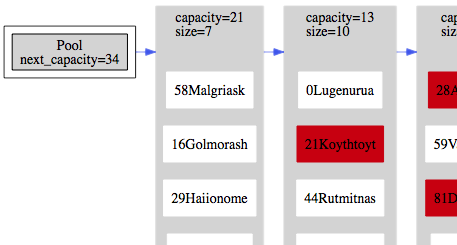
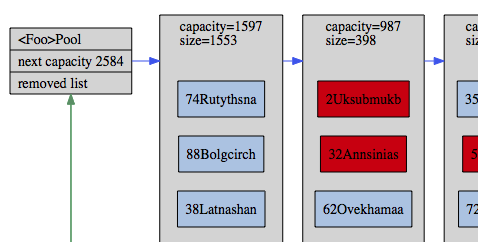
Image made prettier.

diff --git a/test/TestPool.h b/test/TestPool.h
@@ -33,23 +33,26 @@ static void PT_(graph)(const struct T_(Pool) *const p, const char *const fn) {
 	if(!(fp = fopen(fn, "w"))) { perror(fn); return; }
 	fprintf(fp, "digraph {\n"
 		"\tgraph [compound=true, nslimit=3, nslimit1=3];\n"
-		"\trankdir=LR;\n" /* *beg take this out. */
-		"\tnode [shape=box, style=filled];\n"
-		"\tsubgraph cluster_%s {\n"
-		"\t\tdud_%s [label=\"Pool\\nnext_capacity=%lu\\l\"];\n",
-		b_strs[b], b_strs[b], (unsigned long)p->next_capacity);
-	if(p->removed.prev) fprintf(fp, "\t\tnode%p [label=\"removed\"];\n",
-		(const void *)PT_(x_const_upcast)(&p->removed));
-	fprintf(fp, "\t}\n"
-		"\tedge [color=royalblue];\n");
+		"\trankdir=LR;\n"
+		"\tedge [color=royalblue];\n"
+		"\tnode [shape=record, style=filled, fillcolor=lightgray];\n"
+		"\tnode%p [label=\"\\<" QUOTE(POOL_NAME) "\\>Pool\\l|next capacity %lu\\l|removed list\\l\"];\n",
+			(const void *)PT_(x_const_upcast)(&p->removed), /*b_strs[b],*/ (unsigned long)p->next_capacity);
 	for(block = p->largest; block; block = block->smaller) {
 		sprintf(b_strs[b = !b], "block%p", (const void *)block);
+		/* This is cleaver but I don't know what I did. Hack. */
+		if(block == p->largest) {
+			fprintf(fp, "\tnode%p",
+				(const void *)PT_(x_const_upcast)(&p->removed));
+		} else {
+			fprintf(fp, "\tdud_%s", b_strs[!b]);
+		}
 		fprintf(fp,
-			"\tdud_%s -> dud_%s [ltail=cluster_%s, lhead=cluster_%s];\n",
-			b_strs[!b], b_strs[b], b_strs[!b], b_strs[b]);
+			" -> dud_%s [ltail=cluster_%s, lhead=cluster_%s];\n",
+			b_strs[b], b_strs[!b], b_strs[b]);
 		fprintf(fp, "\tsubgraph cluster_%s {\n"
 			"\t\tstyle=filled;\n"
-			"\t\tcolor=lightgray;\n"
+			"\t\tfillcolor=lightgray;\n"
 			"\t\tlabel=\"capacity=%lu\\lsize=%lu\\l\";\n"
 			"\t\tdud_%s [shape=point, style=invis];\n", b_strs[b],
 			(unsigned long)block->capacity, (unsigned long)block->size,
@@ -57,8 +60,9 @@ static void PT_(graph)(const struct T_(Pool) *const p, const char *const fn) {
 		for(node = PT_(block_nodes)(block), end = node + PT_(range)(p, block);
 			node < end; node++) {
 			PT_(to_string)(&node->data, &str);
-			fprintf(fp, "\t\tnode%p [label=\"%s\", color=%s];\n",
-				(const void *)node, str, node->x.prev ? "firebrick" : "white");
+			fprintf(fp, "\t\tnode%p [label=\"%s\", fillcolor=%s];\n",
+				(const void *)node, str,
+				node->x.prev ? "firebrick" : "lightsteelblue");
 			/*if(node == beg) continue;
 			fprintf(fp, "\t\tnode%p -> node%p [style=invis];\n",
 				(const void *)(node - 1), (const void *)node);*/
@@ -68,7 +72,7 @@ static void PT_(graph)(const struct T_(Pool) *const p, const char *const fn) {
 	if(p->removed.prev) {
 		const struct PT_(X) *x0 = &p->removed, *x1 = x0->next, *turtle = x0;
 		int is_turtle = 0;
-		fprintf(fp, "\tedge [color=darkseagreen];\n");
+		fprintf(fp, "\tedge [color=darkseagreen, constraint=false];\n");
 		do {
 			fprintf(fp, "\tnode%p -> node%p;\n",
 				(const void *)PT_(x_const_upcast)(x0),

diff --git a/readme.md b/readme.md
@@ -28,7 +28,7 @@
  * Standard:  
    C89
  * See also:  
-   [Array](https://github.com/neil-edelman/Array); [Digraph](https://github.com/neil-edelman/Digraph); [List](https://github.com/neil-edelman/List); [Orcish](https://github.com/neil-edelman/Orcish); [Set](https://github.com/neil-edelman/Set)
+   [Array](https://github.com/neil-edelman/Array); [List](https://github.com/neil-edelman/List); [Orcish](https://github.com/neil-edelman/Orcish); [Set](https://github.com/neil-edelman/Set)
 
 
 ## <a id = "user-content-typedef" name = "user-content-typedef">Typedef Aliases</a> ##
@@ -55,7 +55,7 @@ Operates by side\-effects on `data` only\.
 
 <code>struct <strong>&lt;T&gt;Pool</strong>;</code>
 
-The pool\. Zeroed data is a valid state\. To instantiate explicitly, see [&lt;T&gt;Pool](#user-content-fn-517215cf) or initialise it with `POOL_INIT` or `{0}` \(C99\.\)
+The pool\. Zeroed data is a valid state\. To instantiate explicitly, see [&lt;T&gt;Pool](#user-content-fn-517215cf) or initialise it with `POOL_IDLE` or `{0}` \(C99\.\)
 
 ![States.](web/states.png)
 
